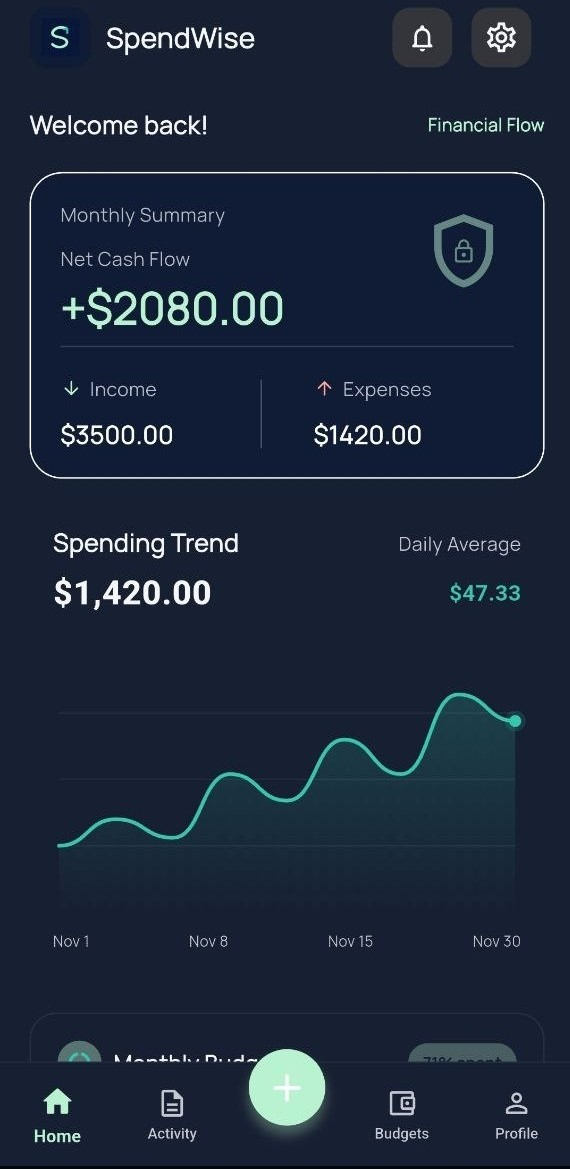
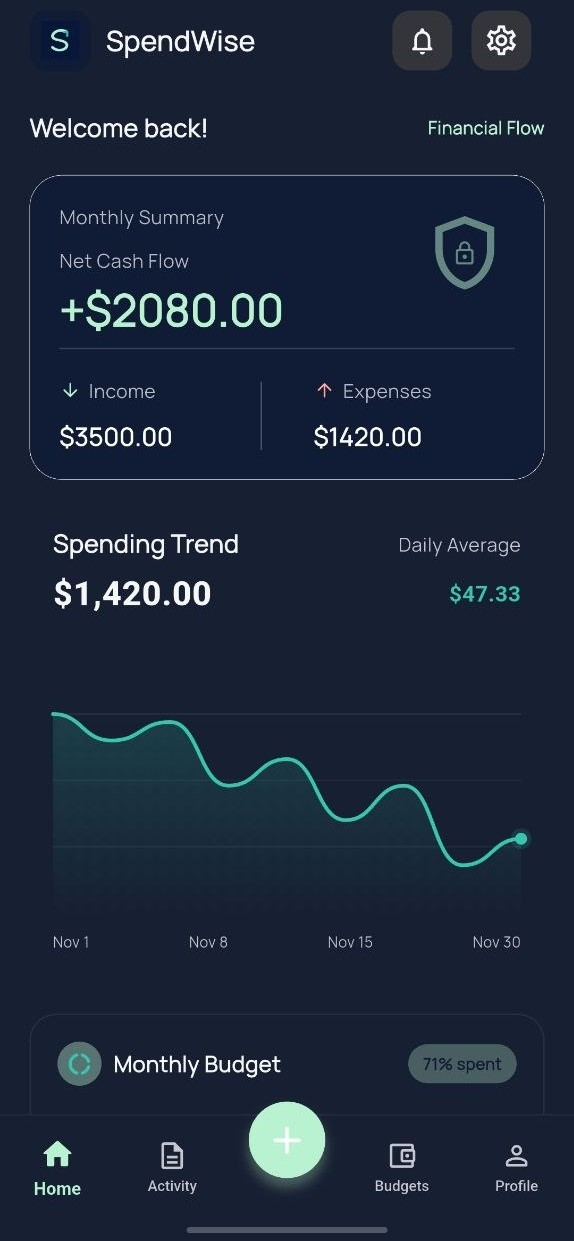
Add files via upload

diff --git a/index.html b/index.html
@@ -262,7 +262,7 @@ Software Engineering graduate from Damascus University, building mobile apps wit
         <div  data-aos="fade-up" data-aos-delay="100" class="project-card mobile-card" onclick="openProjectModal(this)"
             data-title="SpendWise — Smart Personal Finance Companion"
             data-tags="Flutter, Dart, Clean Architecture, BLoC/Cubit, Firebase Authentication, Cloud Firestore, REST API, Dio, GetIt, Repository Pattern, Use Cases, Secure Storage, Dartz"
-            data-images="images/project-8.png,images/project-8-detail-1.png,images/project-8-detail-2.png,images/project-8-detail-3.png"
+            data-images="images/project-8.png,images/project-8-detail-1.png,images/project-8-detail-2.png,images/project-8-detail-3.png,images/project-8-detail-4.png,images/project-8-detail-5.png,images/project-8-detail-6.png,images/project-8-detail-7.png"
             data-description="A comprehensive Flutter application designed to simplify personal finance through expense tracking, income management, smart budgeting, savings goals, and multi-currency support. It offers interactive financial dashboards, recurring transactions, spending analytics, financial forecasting, and personalized insights to support better financial decisions.">    
                     <div class="mobile-frame">
                 <img src="images/project-1.png" alt="Musafer">
